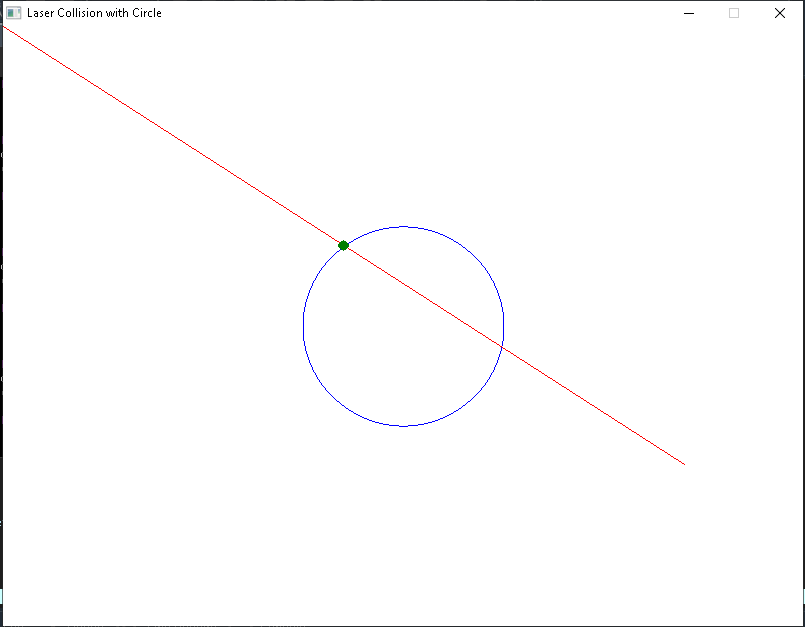
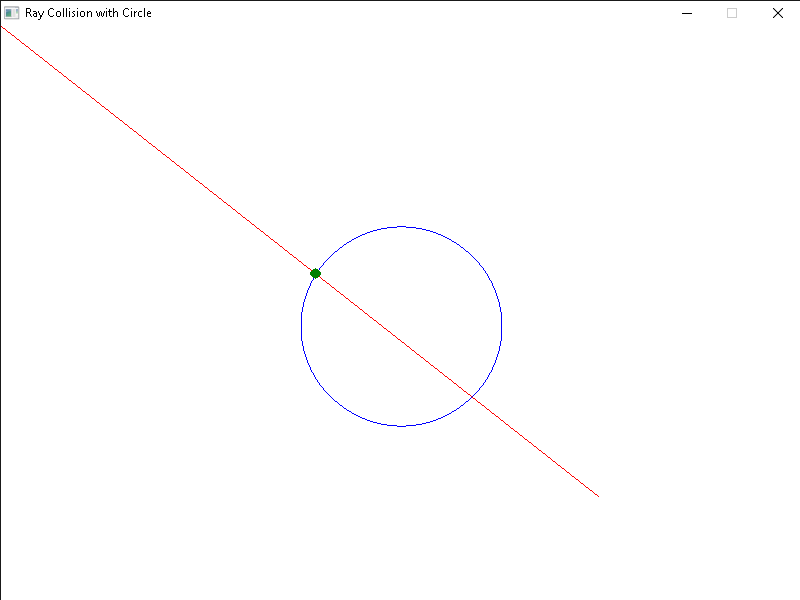
improved usage example for ray_circle_intersect_distance function

diff --git a/public/usage-examples/geometry/ray_circle_intersect_distance-1-example-oop.cs b/public/usage-examples/geometry/ray_circle_intersect_distance-1-example-oop.cs
@@ -6,57 +6,40 @@ namespace RayCircleIntersectDistanceExample
     {
         public static void Main()
         {
-            // Create a window
-            Window window = new Window("Laser Collision with Circle", 800, 600);
+            SplashKit.OpenWindow("Ray-Circle Intersection Distance", 800, 600);
 
-            // Initialize player position
-            Point2D playerPos = SplashKit.PointAt(0, 0);
+            // Declare variables
+            Point2D rayOrigin = SplashKit.PointAt(0, 0);
+            Circle targetCircle = SplashKit.CircleAt(400, 300, 100);
+            Point2D mousePos;
+            Vector2D rayHeading;
+            float distanceToCircle;
 
-            // Variables to store the latest shot data
-            Point2D lastTarget = playerPos;
-            Vector2D lastDirection = SplashKit.VectorTo(0, 0);
-            float lastHitDistance = -1;
-
-            // Define the target circle
-            Circle targetCircle = new Circle()
-            {
-                Center = SplashKit.PointAt(400, 300),
-                Radius = 100
-            };
-
-            while (!window.CloseRequested)
+            while (!SplashKit.QuitRequested())
             {
                 SplashKit.ProcessEvents();
-                SplashKit.ClearScreen();
 
-                // Draw the target circle
+                // Calculate ray heading from origin to mouse
+                mousePos = SplashKit.MousePosition();
+                rayHeading = SplashKit.UnitVector(SplashKit.VectorPointToPoint(rayOrigin, mousePos));
+
+                // Find intersection distance between ray and circle
+                distanceToCircle = SplashKit.RayCircleIntersectDistance(rayOrigin, rayHeading, targetCircle);
+
+                // Draw scene
+                SplashKit.ClearScreen(Color.White);
                 SplashKit.DrawCircle(Color.Blue, targetCircle);
+                SplashKit.DrawLine(Color.Red, rayOrigin, mousePos);
 
-                // Fire a laser when the mouse is clicked
-                if (SplashKit.MouseClicked(MouseButton.LeftButton))
+                if (distanceToCircle > 0)
                 {
-                    // Update the target position based on the mouse position
-                    lastTarget = SplashKit.MousePosition();
-                    lastDirection = SplashKit.UnitVector(SplashKit.VectorPointToPoint(playerPos, lastTarget));
-
-                    // Check for intersection and calculate hit distance
-                    lastHitDistance = SplashKit.RayCircleIntersectDistance(playerPos, lastDirection, targetCircle);
+                    Point2D hitPoint = SplashKit.PointAt(
+                        rayOrigin.X + rayHeading.X * distanceToCircle,
+                        rayOrigin.Y + rayHeading.Y * distanceToCircle
+                    );
+                    SplashKit.FillCircle(Color.Green, hitPoint.X, hitPoint.Y, 5);
                 }
 
-                // If a shot has been made, draw the laser and hit point
-                if (lastHitDistance >= 0)
-                {
-                    // Draw the laser beam
-                    SplashKit.DrawLine(Color.Red, playerPos, lastTarget);
-
-                    // Draw the impact point
-                    if (lastHitDistance > 0)
-                    {
-                        SplashKit.FillCircle(Color.Green, playerPos.X + lastDirection.X * lastHitDistance, playerPos.Y + lastDirection.Y * lastHitDistance, 5);
-                    }
-                }
-
-                // Refresh the screen
                 SplashKit.RefreshScreen(60);
             }
         }

diff --git a/public/usage-examples/geometry/ray_circle_intersect_distance-1-example-sk.cpp b/public/usage-examples/geometry/ray_circle_intersect_distance-1-example-sk.cpp
@@ -2,50 +2,36 @@
 
 int main()
 {
-    // Open a new window
-    open_window("Laser Collision with Circle", 800, 600);
+    open_window("Ray Collision with Circle", 800, 600);
 
-    // Initialize the player position
-    point_2d player_pos = point_at(0, 0);
-
-    // Variables to store the latest shot data
-    point_2d last_target = player_pos;
-    vector_2d last_direction = vector_to(0, 0);
-    float last_hit_distance = -1;
-
-    // Define the target circle
-    circle target = circle_at(point_at(400, 300), 100);
+    // Declare variables
+    point_2d ray_origin = point_at(0, 0);
+    circle target_circle = circle_at(point_at(400, 300), 100);
+    point_2d mouse_pos;
+    vector_2d ray_heading;
+    float distance_to_circle;
 
     while (!quit_requested())
     {
         process_events();
+
+        // Calculate ray heading from origin to mouse
+        mouse_pos = mouse_position();
+        ray_heading = unit_vector(vector_point_to_point(ray_origin, mouse_pos));
+
+        // Find intersection distance between ray and circle
+        distance_to_circle = ray_circle_intersect_distance(ray_origin, ray_heading, target_circle);
+
+        // Draw scene
         clear_screen(COLOR_WHITE);
+        draw_circle(COLOR_BLUE, target_circle);
+        draw_line(COLOR_RED, ray_origin, mouse_pos);
 
-        // Draw the target circle
-        draw_circle(COLOR_BLUE, target);
-
-        // Fire a laser when the mouse is clicked
-        if (mouse_clicked(LEFT_BUTTON))
+        if (distance_to_circle > 0)
         {
-            // Update the target position based on the mouse position
-            last_target = mouse_position();
-            last_direction = unit_vector(vector_point_to_point(player_pos, last_target));
-
-            // Check for intersection and calculate hit distance
-            last_hit_distance = ray_circle_intersect_distance(player_pos, last_direction, target);
-        }
-
-        // If a shot has been made, draw the laser and hit point
-        if (last_hit_distance >= 0)
-        {
-            // Draw the laser beam
-            draw_line(COLOR_RED, player_pos, last_target);
-
-            // Draw the impact point
-            if (last_hit_distance > 0)
-            {
-                fill_circle(COLOR_GREEN, player_pos.x + last_direction.x * last_hit_distance, player_pos.y + last_direction.y * last_hit_distance, 5);
-            }
+            point_2d hit_point = point_at(ray_origin.x + ray_heading.x * distance_to_circle,
+                                          ray_origin.y + ray_heading.y * distance_to_circle);
+            fill_circle(COLOR_GREEN, hit_point.x, hit_point.y, 5);
         }
 
         refresh_screen(60);

diff --git a/public/usage-examples/geometry/ray_circle_intersect_distance-1-example-top-level.cs b/public/usage-examples/geometry/ray_circle_intersect_distance-1-example-top-level.cs
@@ -1,54 +1,36 @@
 using SplashKitSDK;
 using static SplashKitSDK.SplashKit;
 
-// Open a new window
-Window window = new Window("Laser Collision with Circle", 800, 600);
+OpenWindow("Ray-Circle Intersection Distance", 800, 600);
 
-// Initialize the player position
-Point2D playerPos = PointAt(0, 0);
-
-// Variables to store the latest shot data
-Point2D lastTarget = playerPos;
-Vector2D lastDirection = VectorTo(0, 0);
-float lastHitDistance = -1;
-
-// Define the target circle
-Circle target = new Circle()
-{
-    Center = PointAt(400, 300),
-    Radius = 100
-};
+// Declare variables
+Point2D rayOrigin = PointAt(0, 0);
+Circle targetCircle = CircleAt(400, 300, 100);
+Point2D mousePos;
+Vector2D rayHeading;
+float distanceToCircle;
 
 while (!QuitRequested())
 {
     ProcessEvents();
-    ClearScreen();
 
-    // Draw the target circle
-    DrawCircle(Color.Blue, target);
+    // Calculate ray heading from origin to mouse
+    mousePos = MousePosition();
+    rayHeading = UnitVector(VectorPointToPoint(rayOrigin, mousePos));
 
-    // Fire a laser when the mouse is clicked
-    if (MouseClicked(MouseButton.LeftButton))
+    // Find intersection distance between ray and circle
+    distanceToCircle = RayCircleIntersectDistance(rayOrigin, rayHeading, targetCircle);
+
+    // Draw scene
+    ClearScreen(Color.White);
+    DrawCircle(Color.Blue, targetCircle);
+    DrawLine(Color.Red, rayOrigin, mousePos);
+
+    if (distanceToCircle > 0)
     {
-        // Update the target position based on the mouse position
-        lastTarget = MousePosition();
-        lastDirection = UnitVector(VectorPointToPoint(playerPos, lastTarget));
-
-        // Check for intersection and calculate hit distance
-        lastHitDistance = RayCircleIntersectDistance(playerPos, lastDirection, target);
-    }
-
-    // If a shot has been made, draw the laser and hit point
-    if (lastHitDistance >= 0)
-    {
-        // Draw the laser beam
-        DrawLine(Color.Red, playerPos, lastTarget);
-
-        // Draw the impact point
-        if (lastHitDistance > 0)
-        {
-            FillCircle(Color.Green, playerPos.X + lastDirection.X * lastHitDistance, playerPos.Y + lastDirection.Y * lastHitDistance, 5);
-        }
+        Point2D hitPoint = PointAt(rayOrigin.X + rayHeading.X * distanceToCircle,
+                                   rayOrigin.Y + rayHeading.Y * distanceToCircle);
+        FillCircle(Color.Green, hitPoint.X, hitPoint.Y, 5);
     }
 
     RefreshScreen(60);

diff --git a/public/usage-examples/geometry/ray_circle_intersect_distance-1-example.py b/public/usage-examples/geometry/ray_circle_intersect_distance-1-example.py
@@ -1,42 +1,32 @@
 from splashkit import *
 
-# Open a new window
-open_window("Laser Collision with Circle", 800, 600)
+open_window("Ray-Circle Intersection Distance", 800, 600)
 
-# Initialize the player position
-player_pos = point_at(0, 0)
-
-# Variables to store the latest shot data
-last_target = player_pos
-last_direction = vector_to(0, 0)
-last_hit_distance = -1
-
-# Define the target circle
-target = circle_at(point_at(400, 300), 100)
+# Declare variables
+ray_origin = point_at(0, 0)
+target_circle = circle_at(point_at(400, 300), 100)
+mouse_pos = point_at(0, 0)
+ray_heading = vector_to(0, 0)
+distance_to_circle = 0.0
 
 while not quit_requested():
     process_events()
+
+    # Calculate ray heading from origin to mouse
+    mouse_pos = mouse_position()
+    ray_heading = unit_vector(vector_point_to_point(ray_origin, mouse_pos))
+
+    # Find intersection distance between ray and circle
+    distance_to_circle = ray_circle_intersect_distance(ray_origin, ray_heading, target_circle)
+
+    # Draw scene
     clear_screen(color_white())
+    draw_circle_record(color_blue(), target_circle)
+    draw_line_point_to_point(color_red(), ray_origin, mouse_pos)
 
-    # Draw the target circle
-    draw_circle_record(color_blue(), target)
-
-    # Fire a laser when the mouse is clicked
-    if mouse_clicked(MouseButton.left_button):
-        # Update the target position based on the mouse position
-        last_target = mouse_position()
-        last_direction = unit_vector(vector_point_to_point(player_pos, last_target))
-
-        # Check for intersection and calculate hit distance
-        last_hit_distance = ray_circle_intersect_distance(player_pos, last_direction, target)
-
-    # If a shot has been made, draw the laser and hit point
-    if last_hit_distance >= 0:
-        # Draw the laser beam
-        draw_line_point_to_point(color_red(), player_pos, last_target)
-
-        # Draw the impact point
-        if last_hit_distance > 0:
-            fill_circle(color_green(), player_pos.x + last_direction.x * last_hit_distance, player_pos.y + last_direction.y * last_hit_distance, 5)
+    if distance_to_circle > 0:
+        hit_point = point_at(ray_origin.x + ray_heading.x * distance_to_circle,
+                             ray_origin.y + ray_heading.y * distance_to_circle)
+        fill_circle(color_green(), hit_point.x, hit_point.y, 5)
 
     refresh_screen_with_target_fps(60)
